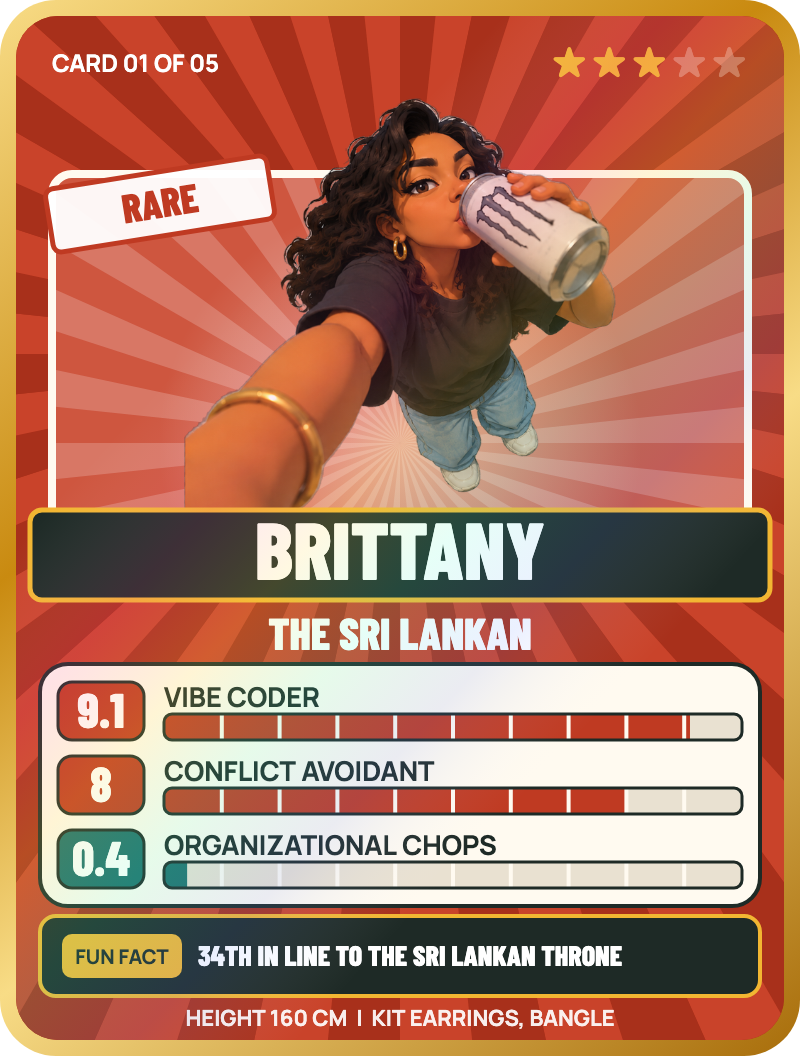
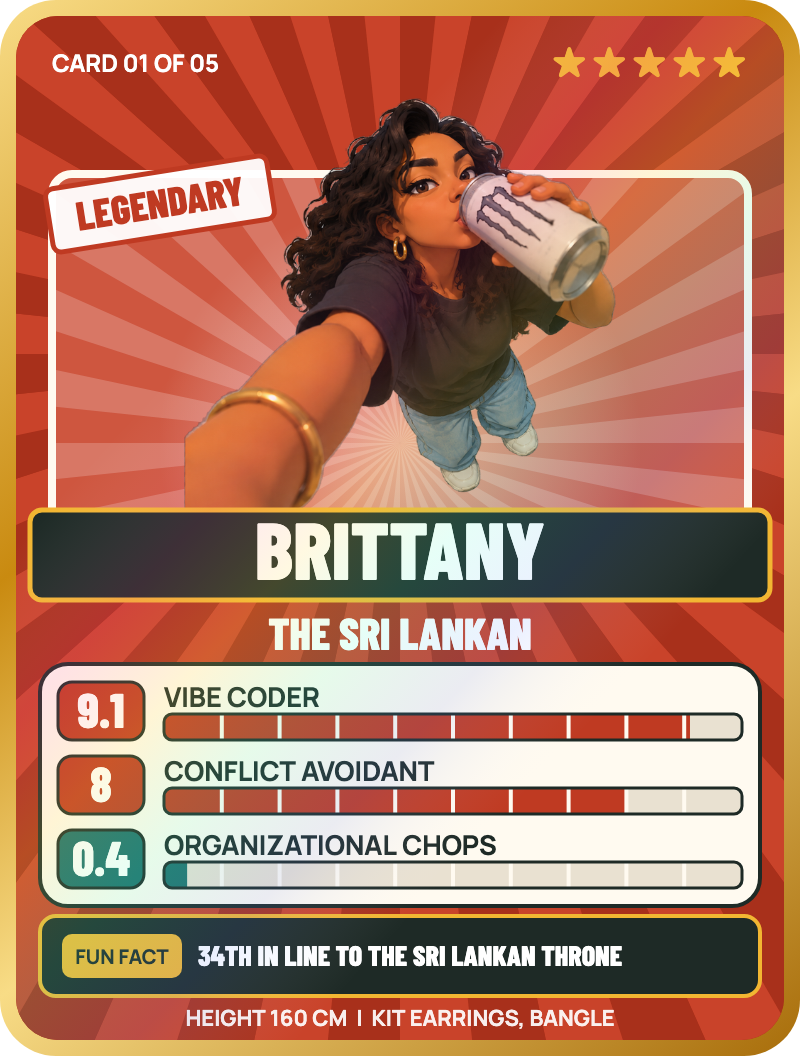
Profile tab in the bar, Phrases first in the guide, every card 5 stars, bolder current tab
Profile is the last tab, shown with your own character; tapping your name or Menu > My profile opens it, and Back returns to the tab you came from. The guide opens on Phrases. Every Top Trumps card is 5 stars, Legendary. The tab you are on is a filled red pill so it stands apart from the rest; the bar fits six tabs at 320px.

Changed region(s): [[0.0938, 0.1562, 0.3125, 0.2188], [0.8438, 0.0312, 0.9375, 0.0938], [0.5, 0.7188, 0.5312, 0.75]]

diff --git a/src/App.tsx b/src/App.tsx
@@ -41,10 +41,10 @@ import type { Item, Pace as PaceT, Person, Ranking, Response, Store, Tier } from
 
 type Step = 'days' | 'pace' | 'howto' | 'rate' | 'tabs';
 const howtoCopy = () => (copyData as unknown as { howto?: HowToCopy }).howto;
-type Tab = 'My trip' | 'Picks' | 'Group' | 'Suggest' | 'Guide';
+type Tab = 'My trip' | 'Picks' | 'Group' | 'Suggest' | 'Guide' | 'Profile';
 // The tab bar only renders once I have submitted, so Guide is never offered before that.
-const TABS: Tab[] = ['My trip', 'Picks', 'Group', 'Suggest', 'Guide'];
-const TAB_ICON: Record<Tab, (p: { size?: number }) => JSX.Element> = { 'My trip': IconRoute, 'Picks': IconList, 'Group': IconGroup, 'Suggest': IconSpark, 'Guide': IconBook };
+const TABS: Tab[] = ['My trip', 'Picks', 'Group', 'Suggest', 'Guide', 'Profile'];
+const TAB_ICON: Record<Tab, (p: { size?: number }) => JSX.Element> = { 'My trip': IconRoute, 'Picks': IconList, 'Group': IconGroup, 'Suggest': IconSpark, 'Guide': IconBook, 'Profile': IconGroup };
 type Say = (t?: string, kind?: QuipKind) => void;
 
 function MyTripTab() {
@@ -90,7 +90,7 @@ function SuggestTab() {
 }
 
 // Picks is drawn inside Flow, which holds my draft ranking.
-const PANELS: Record<Exclude<Tab, 'Picks'>, () => JSX.Element> = { 'My trip': MyTripTab, 'Group': GroupTab, 'Suggest': SuggestTab, 'Guide': Guide };
+const PANELS: Record<Exclude<Tab, 'Picks' | 'Profile'>, () => JSX.Element> = { 'My trip': MyTripTab, 'Group': GroupTab, 'Suggest': SuggestTab, 'Guide': Guide };
 
 const blank = (name: Person): Response => ({
   name, days: null, flex: false, pace: null, ranking: emptyRanking(), rated: [], submitted: false, updatedAt: new Date().toISOString(),
@@ -151,7 +151,13 @@ function Flow({ me, say, onStartOver }: { me: Person; say: Say; onStartOver(): v
   // The profile card sits over whatever step or tab I was on; Back closes it and that screen is still there.
   const [profileOpen, setProfileOpen] = useState(false);
   const scrollBack = useRef<number | null>(null);
-  const openProfile = () => { if (profileOpen) return; scrollBack.current = window.scrollY; navigate('fwd', () => setProfileOpen(true)); };
+  // On the tabs the profile is its own tab (Brittany 2026-10-16); before that it opens over the current step.
+  const openProfile = () => {
+    if (step === 'tabs') { if (tabRef.current !== 'Profile') navigate('tab', () => setTab('Profile')); return; }
+    if (profileOpen) return;
+    scrollBack.current = window.scrollY;
+    navigate('fwd', () => setProfileOpen(true));
+  };
   const closeProfile = () => navigate('back', () => setProfileOpen(false));
 
   // Each tab switch is a history entry with the same URL, so a phone's Back returns to the previous tab
@@ -265,6 +271,9 @@ function Flow({ me, say, onStartOver }: { me: Person; say: Say; onStartOver(): v
         )}
       </div>
     );
+  } else if (tab === 'Profile') {
+    // Back goes to the tab I came from: tab switches are history entries.
+    content = <div role="tabpanel" aria-label="Profile" className="panel"><Profile name={me} players={copy.players} onBack={() => history.back()} /></div>;
   } else {
     const Panel = PANELS[tab];
     content = (
@@ -294,7 +303,8 @@ function Flow({ me, say, onStartOver }: { me: Person; say: Say; onStartOver(): v
         <nav className="tabs" role="tablist" aria-label="Sections">
           {TABS.map(t => {
             const Icon = TAB_ICON[t];
-            return <button key={t} role="tab" aria-selected={tab === t} onClick={() => { if (t !== tab) navigate('tab', () => setTab(t)); }}><Icon /><span>{t}</span></button>;
+            const icon = t === 'Profile' ? <span className="tab-me" aria-hidden="true"><Avatar name={me} size={22} /></span> : <Icon />;
+            return <button key={t} role="tab" aria-selected={tab === t} onClick={() => { if (t !== tab) navigate('tab', () => setTab(t)); }}>{icon}<span>{t}</span></button>;
           })}
         </nav>
       )}

diff --git a/src/styles.css b/src/styles.css
@@ -291,10 +291,14 @@ h1.big { margin: 0; }
 /* tabs: a floating glass bar */
 .panel { flex: 1; display: flex; flex-direction: column; }
 [role="tabpanel"] > .body { flex: none; }
-.tabs { position: sticky; bottom: 12px; z-index: 25; margin: 6px 12px 12px; display: grid; grid-template-columns: repeat(5, 1fr); gap: 2px; padding: 6px; border-radius: var(--r-card); background: var(--white); box-shadow: var(--shadow-card), 0 0 0 1px var(--glass-line); view-transition-name: tabs; }
+.tabs { position: sticky; bottom: 12px; z-index: 25; margin: 6px 12px 12px; display: grid; grid-auto-flow: column; grid-auto-columns: minmax(0, 1fr); gap: 2px; padding: 6px; border-radius: var(--r-card); background: var(--white); box-shadow: var(--shadow-card), 0 0 0 1px var(--glass-line); view-transition-name: tabs; }
 .tabs button { all: unset; cursor: pointer; display: flex; flex-direction: column; align-items: center; gap: 3px; padding: 8px 2px 7px; border-radius: var(--r-btn); font-size: 11.5px; font-weight: 700; color: var(--muted); transition: background var(--dur) var(--ease), color var(--dur) var(--ease); }
-.tabs button[aria-selected="true"] { color: var(--ink); background: var(--paper); box-shadow: inset 0 -2px 0 var(--red); }
-.tabs button[aria-selected="true"] svg { color: var(--red-ink); }
+/* The tab I am on is a filled pill; the rest stay quiet ink (Brittany 2026-10-16: clear hierarchy). */
+.tabs button[aria-selected="true"] { color: var(--on-red); background: var(--red-deep); box-shadow: var(--shadow-btn); }
+.tabs button[aria-selected="true"] svg { color: var(--on-red); }
+.tabs button:not([aria-selected="true"]):hover { color: var(--ink); background: var(--chip); }
+.tabs .tab-me { display: grid; place-items: center; width: 24px; height: 24px; }
+.tabs button[aria-selected="true"] .tab-me .avatar, .tabs button[aria-selected="true"] .tab-me img { box-shadow: 0 0 0 2px var(--on-red); border-radius: 50%; }
 .tabs button:focus-visible { outline: 2px solid var(--coconut); outline-offset: -2px; }
 
 /* results */

diff --git a/src/screens/profileCard.ts b/src/screens/profileCard.ts
@@ -6,7 +6,7 @@ export interface CardStat { label: string; value: number }
 export type Tier = 'lo' | 'mid' | 'hi';
 export interface CardData {
   name: Person; no: number; total: number; title: string; stats: CardStat[]; heightCm: number; kit: string[];
-  /** Rarity, 1 to 5 stars: the average of the stats shown (each capped at 10), halved. */
+  /** Rarity: always 5 stars, the top label. */
   stars: number; rarity: string;
   /** Brittany's one-line fun fact for the player, from profile.json. */
   fact: string | null;
@@ -35,9 +35,9 @@ const FALLBACK: [string, string] = PALETTE.Brittany;
 export const tierOf = (v: number): Tier => (v >= 8 ? 'hi' : v >= 4 ? 'mid' : 'lo');
 export const TIER = { hi: { fill: '#bf3a22', ink: '#ffffff' }, mid: { fill: '#f2b632', ink: '#1e2a26' }, lo: { fill: '#1f6f6b', ink: '#ffffff' } };
 
-export function rarityOf(stats: CardStat[]) {
-  const mean = stats.length ? stats.reduce((a, s) => a + Math.min(10, s.value), 0) / stats.length : 0;
-  const stars = Math.max(1, Math.min(5, Math.round(mean / 2)));
+/** Every card is 5 stars, the top rarity (Brittany 2026-10-16: "All the cards should be 5/5"). */
+export function rarityOf(_stats: CardStat[]) {
+  const stars = 5;
   return { stars, rarity: profile.rarity[stars - 1] };
 }
 

diff --git a/e2e/guide.spec.ts b/e2e/guide.spec.ts
@@ -27,7 +27,7 @@ for (const scheme of ['dark', 'light'] as const) {
       const bar = document.querySelector('.tabs')!;
       return { bar: r(bar), tabs: Array.from(bar.querySelectorAll('button')).map(b => ({ ...r(b), sw: b.scrollWidth, cw: b.clientWidth })) };
     });
-    expect(boxes.tabs).toHaveLength(5);
+    expect(boxes.tabs).toHaveLength(6);
     for (const t of boxes.tabs) {
       expect(t.l).toBeGreaterThanOrEqual(boxes.bar.l);
       expect(t.r).toBeLessThanOrEqual(boxes.bar.r);
@@ -39,7 +39,7 @@ for (const scheme of ['dark', 'light'] as const) {
     console.log(`TABS ${scheme}`, JSON.stringify(boxes.tabs.map(t => [Math.round(t.l), Math.round(t.r), Math.round(t.r - t.l)])), 'bar', Math.round(boxes.bar.l), Math.round(boxes.bar.r));
 
     await page.getByRole('button', { name: 'Open the guide' }).click();
-    await expect(page.getByRole('region', { name: 'Food' })).toBeVisible();
+    await expect(page.getByRole('region', { name: 'Phrases' })).toBeVisible();
     await page.waitForTimeout(600);
     await shot(page, `guide-food-${scheme}`);
 

diff --git a/src/screens/guide.test.tsx b/src/screens/guide.test.tsx
@@ -46,7 +46,8 @@ describe('Guide access', () => {
     await user.click(await screen.findByRole('tab', { name: 'Group' }));
     await user.click(await screen.findByRole('button', { name: 'Open the guide' }));
     expect(await screen.findByRole('tab', { name: 'Guide', selected: true })).toBeInTheDocument();
-    expect(screen.getByRole('region', { name: 'Food' })).toBeInTheDocument();
+    // Brittany 2026-10-16: the Guide opens on Phrases.
+    expect(screen.getByRole('region', { name: 'Phrases' })).toBeInTheDocument();
   });
 });
 
@@ -56,6 +57,8 @@ describe('Guide sections', () => {
     const user = userEvent.setup();
     render(<App />);
     await user.click(await screen.findByRole('tab', { name: 'Guide' }));
+    await screen.findByRole('region', { name: 'Phrases' });
+    await user.click(screen.getByRole('button', { name: 'Food' }));
     const food = await screen.findByRole('region', { name: 'Food' });
     expect(within(food).getByText('Kottu roti')).toBeInTheDocument();
     expect(screen.queryByText('Jackfruit')).toBeNull();

diff --git a/src/screens/Profile.test.tsx b/src/screens/Profile.test.tsx
@@ -100,11 +100,11 @@ describe('profile card contents', () => {
     expect(lines.join(' ')).toBe(FACTS.Lazza);
   });
 
-  it('rarity is the average of the stats halved into 1 to 5 stars, capped per stat at 10', () => {
-    expect(rarityOf([{ label: 'a', value: 100 }, { label: 'b', value: 100 }])).toEqual({ stars: 5, rarity: 'Legendary' });
-    expect(rarityOf([{ label: 'a', value: 0 }])).toEqual({ stars: 1, rarity: 'Common' });
-    expect(rarityOf([{ label: 'a', value: 6 }])).toEqual({ stars: 3, rarity: 'Rare' });
-    expect(rarityOf([]).stars).toBe(1);
+  // Brittany 2026-10-16: "All the cards should be 5/5", whatever the stats.
+  it('every card is 5 stars, Legendary, whatever the stats', () => {
+    for (const stats of [[{ label: 'a', value: 100 }], [{ label: 'a', value: 0 }], [{ label: 'a', value: 6 }], []]) {
+      expect(rarityOf(stats)).toEqual({ stars: 5, rarity: 'Legendary' });
+    }
   });
 
   it('every player gets a different card colour', () => {

diff --git a/e2e/guide-chips.spec.ts b/e2e/guide-chips.spec.ts
@@ -15,7 +15,7 @@ for (const w of [320, 360, 390, 1280]) {
     await page.evaluate(r => { localStorage.clear(); localStorage.setItem('tp:me', 'Brittany'); localStorage.setItem('tp:reveal-mine', '1'); localStorage.setItem(`tp:resp:${r.name}`, JSON.stringify(r)); }, me);
     await page.reload();
     await page.getByRole('tab', { name: 'Guide' }).click();
-    await expect(page.getByRole('region', { name: 'Food' })).toBeVisible();
+    await expect(page.getByRole('region', { name: 'Phrases' })).toBeVisible();
     const m = await page.evaluate(() => ({
       clipped: [...document.querySelectorAll('.guide-chips button')].filter(c => c.scrollWidth > c.clientWidth + 1).map(c => c.textContent),
       overflowX: document.documentElement.scrollWidth - document.documentElement.clientWidth,

diff --git a/src/App.profile.test.tsx b/src/App.profile.test.tsx
@@ -89,7 +89,8 @@ describe('Back from the profile', () => {
     await userEvent.click(within(tabs).getByRole('tab', { name: 'Suggest' }));
     await userEvent.click(screen.getByRole('button', { name: `Alex, ${profile.headerLabel}` }));
     await onProfile('Alex');
-    expect(screen.queryByRole('tablist', { name: 'Sections' })).toBeNull();
+    // Brittany 2026-10-16: on the tabs, the profile is its own tab in the bar.
+    expect(within(screen.getByRole('tablist', { name: 'Sections' })).getByRole('tab', { name: 'Profile' })).toHaveAttribute('aria-selected', 'true');
     await userEvent.click(screen.getByRole('button', { name: profile.back }));
     await waitFor(() => expect(screen.getByRole('tab', { name: 'Suggest' })).toHaveAttribute('aria-selected', 'true'));
   });

diff --git a/src/screens/guide.names.test.tsx b/src/screens/guide.names.test.tsx
@@ -1,4 +1,4 @@
-import { render, screen, within } from '@testing-library/react';
+import { fireEvent, render, screen, within } from '@testing-library/react';
 import { describe, expect, it } from 'vitest';
 import Guide from './Guide';
 
@@ -6,6 +6,7 @@ import Guide from './Guide';
 describe('Guide list names', () => {
   it('bolds the name before the bracket, and a whole item with no bracket', () => {
     render(<Guide />);
+    fireEvent.click(screen.getByRole('button', { name: 'Food' }));
     const food = screen.getByRole('region', { name: 'Food' });
     const bold = within(food).getAllByText((_, el) => el?.tagName === 'B').map(b => b.textContent);
     expect(bold).toContain('Elawolu roti');

diff --git a/src/screens/Guide.tsx b/src/screens/Guide.tsx
@@ -6,7 +6,8 @@ import PhrasePanel, { type Phrase } from './PhraseCards';
 type Entry = { title?: string; body?: string; list?: string[]; after?: string };
 type Section = { id: string; label: string; intro?: string; entries?: Entry[]; phrases?: Phrase[] };
 
-const SECTIONS = guide.sections as Section[];
+// Phrases leads and opens first (Brittany 2026-10-16); the rest keep the guide's own order.
+const SECTIONS = [...(guide.sections as Section[])].sort((a, b) => Number(b.id === 'Phrases') - Number(a.id === 'Phrases'));
 
 /** "Elawolu roti (roti parcels...)": the name before the bracket is bold (Brittany 2026-10-15), the rest stays as written. */
 function Named({ text }: { text: string }) {

diff --git a/e2e/tab-bar.spec.ts b/e2e/tab-bar.spec.ts
@@ -15,7 +15,7 @@ for (const w of [320, 360, 390, 1280]) {
     await page.goto('/');
     await page.evaluate(r => { localStorage.clear(); localStorage.setItem('tp:me', 'Brittany'); localStorage.setItem('tp:reveal-mine', '1'); localStorage.setItem(`tp:resp:${r.name}`, JSON.stringify(r)); }, me);
     await page.reload();
-    await expect(page.getByRole('tab')).toHaveCount(5);
+    await expect(page.getByRole('tab')).toHaveCount(6);
     const m = await page.evaluate(() => {
       const bar = document.querySelector('.tabs')!.getBoundingClientRect();
       const tabs = [...document.querySelectorAll('.tabs [role=tab]')];

diff --git a/e2e/reveal-guide.spec.ts b/e2e/reveal-guide.spec.ts
@@ -26,7 +26,7 @@ test('See Britt\'s guide on Mission ready closes the reveal and opens the Guide'
   await guide.click();
   await expect(page.getByRole('dialog', { name: 'Route reveal' })).toHaveCount(0);
   await expect(page.getByRole('tab', { name: 'Guide', selected: true })).toBeVisible();
-  await expect(page.getByRole('region', { name: 'Food' })).toBeVisible();
+  await expect(page.getByRole('region', { name: 'Phrases' })).toBeVisible();
   // The reveal's scroll lock is gone with it.
   expect(await page.evaluate(() => getComputedStyle(document.body).overflow)).not.toBe('hidden');
 });
